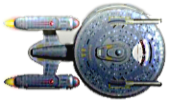
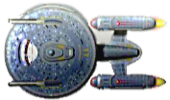
небольшой костыль на управление кораблем

diff --git a/core/src/com/mygdx/sparcade/GameScreen.java b/core/src/com/mygdx/sparcade/GameScreen.java
@@ -32,7 +32,7 @@ public class GameScreen implements Screen
 
         // create starship
         enemy = new Enemy(new Vector2(800/2-64/2, 200));
-        ship = new Starship(new Vector2(0, 480/2 - 50));
+        ship = new Starship(new Vector2(800 - 170 - 10, 480/2 - 50));
 
         camera = new OrthographicCamera();
         camera.setToOrtho(false, 800, 480);
@@ -59,21 +59,46 @@ public class GameScreen implements Screen
         game.batch.draw(fon, 0, 0);
         game.font.draw(game.batch, "Enemy class test, bounds: x=" + (enemy.bounds.x) + ", y= " + (enemy.bounds.y)+", enemy speed= " + (enemy.speed)+" enemy state: "+enemy.state, 0, 470);
         game.batch.draw(enemypic, enemy.bounds.x, enemy.bounds.y);
-        if (Gdx.input.isTouched()) {       // Управление кораблем, не хорошо что весь код в  одной куче
-            Vector3 position = new Vector3();
-            position.set(Gdx.input.getX(), Gdx.input.getY(), 0);
-            camera.unproject(position);
-            if ((int) (position.x) < 200 && ((int) (position.y) < 200)) {
+
+
+        if (Gdx.input.isTouched() || Gdx.input.isTouched(1)) {       // Управление кораблем, не хорошо что весь код в  одной куче
+            Vector3 touch = new Vector3();
+            Vector3 touch2 = new Vector3();
+            touch.set(Gdx.input.getX(), Gdx.input.getY(), 0);
+            camera.unproject(touch);
+            game.font.draw(game.batch, "Touch 1 x - "+Gdx.input.getX()+"Touch 1 y - "+Gdx.input.getX(), 0, 80);
+            if (Gdx.input.isTouched(1)) {
+                touch2.set(Gdx.input.getX(1), Gdx.input.getY(1), 0);
+                camera.unproject(touch2);
+                game.font.draw(game.batch, "Touch 2 x - "+Gdx.input.getX(1)+"Touch 2 y - "+Gdx.input.getX(1), 0, 20);
+                if (touch2.x > 600 && touch.x > 600)
+                    touch = touch2;
+                //else
+                //if (touch2.x > 400)
+
+            }
+
+            if ((int) (touch.x) > 600 && ((int) (touch.y) < 200)) {  // Влево
                 ship.bounds.y -= 2;
                 game.batch.draw(shipPicLeft, ship.bounds.x, ship.bounds.y);
             }
             else
-                if ((int) (position.x) < 200 && ((int) (position.y) > 200)) {
-                    ship.bounds.y += 2;
-                    game.batch.draw(shipPicRight, ship.bounds.x, ship.bounds.y);
-                }
-                else
-                    game.batch.draw(shipPic, ship.bounds.x, ship.bounds.y);
+            if ((int) (touch.x) > 600 && ((int) (touch.y) > 200)) {  // Вправо
+                ship.bounds.y += 2;
+                game.batch.draw(shipPicRight, ship.bounds.x, ship.bounds.y);
+            }
+            else
+            if ((int) (touch.x) > 600 && ((int) (touch.y) < 200)) {
+                ship.bounds.y -= 2;
+                game.batch.draw(shipPicLeft, ship.bounds.x, ship.bounds.y);
+            }
+            else
+            if ((int) (touch.x) > 600 && ((int) (touch.y) > 200)) {
+                ship.bounds.y += 2;
+                game.batch.draw(shipPicRight, ship.bounds.x, ship.bounds.y);
+            }
+            else
+                game.batch.draw(shipPic, ship.bounds.x, ship.bounds.y);
         }
         else
             game.batch.draw(shipPic, ship.bounds.x, ship.bounds.y);
